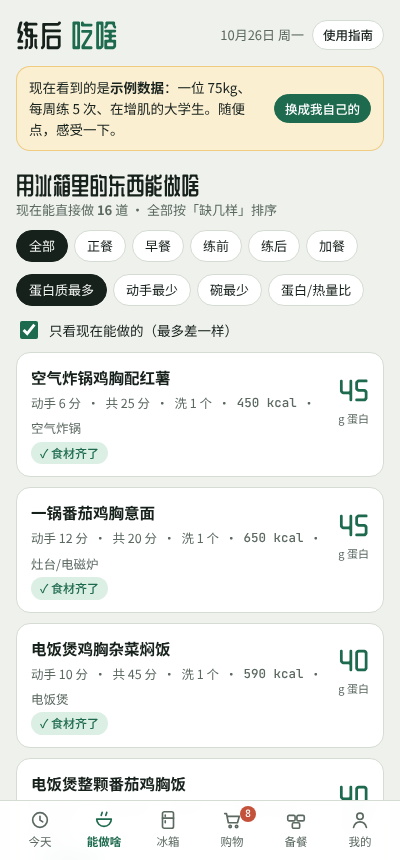
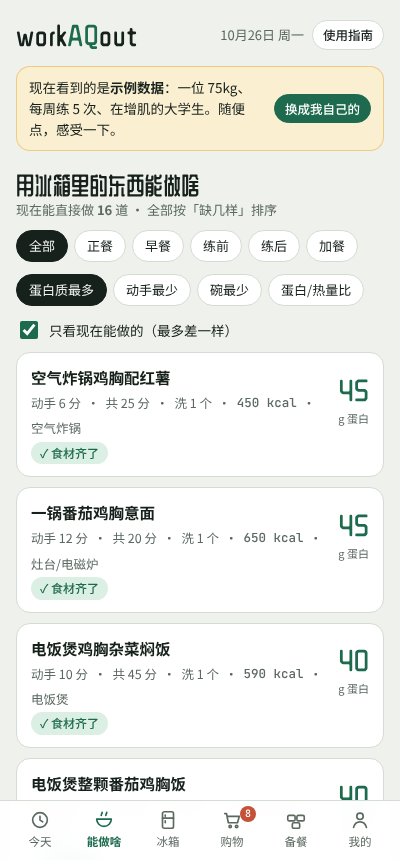
Rename app to workAQout and make it installable
- New dumbbell-over-bowl app icon (SVG source plus PNG sizes,
  including a maskable one for Android)
- Web app manifest and Apple meta tags so 'Add to Home Screen'
  opens full screen with the workAQout name and icon
- Keep the fuel/ URL and saved data key so existing users keep
  their data
- README: home-screen steps for iPhone, Android and desktop

Claude-Session: https://claude.ai/code/session_01DJxcTysiVgKHernWo6krXW

Changed region(s): [[0.03, 0.0, 0.36, 0.0605]]

diff --git a/fuel/index.html b/fuel/index.html
@@ -3,7 +3,16 @@
 <head><!--local-->
 <meta charset="utf-8"><!--local-->
 <meta name="viewport" content="width=device-width, initial-scale=1, viewport-fit=cover"><!--local-->
-<title>练后吃啥</title>
+<link rel="manifest" href="manifest.webmanifest"><!--local-->
+<link rel="icon" href="icons/icon.svg" type="image/svg+xml"><!--local-->
+<link rel="apple-touch-icon" href="icons/apple-touch-icon.png"><!--local-->
+<meta name="apple-mobile-web-app-capable" content="yes"><!--local-->
+<meta name="mobile-web-app-capable" content="yes"><!--local-->
+<meta name="apple-mobile-web-app-title" content="workAQout"><!--local-->
+<meta name="apple-mobile-web-app-status-bar-style" content="default"><!--local-->
+<meta name="theme-color" content="#1d6a4e" media="(prefers-color-scheme: light)"><!--local-->
+<meta name="theme-color" content="#0f1512" media="(prefers-color-scheme: dark)"><!--local-->
+<title>workAQout</title>
 <meta name="claude:viewport-fit-sides" content="cover">
 <meta name="description" content="给爱健身、不太会做饭的学生：按冰箱里现有的食材推荐高蛋白快手菜，自动预测什么快吃完了。">
 <link rel="preconnect" href="https://fonts.googleapis.com">
@@ -224,7 +233,7 @@ ol.steps { margin: 0; padding-left: 22px; display: flex; flex-direction: column;
 <body><!--local-->
 <div class="wrap" id="app">
   <header class="top">
-    <div class="logo">练后<b>吃啥</b><small>健身学生的厨房助手</small></div>
+    <div class="logo"><span>work<b>AQ</b>out</span><small>练后吃啥 · 健身学生的厨房助手</small></div>
     <div class="row" style="flex-wrap:nowrap"><span class="datechip" id="datechip"></span><button class="btn small" data-act="guide">使用指南</button></div>
   </header>
   <div id="banner"></div>

diff --git a/fuel/README.md b/fuel/README.md
@@ -1,4 +1,4 @@
-# 练后吃啥
+# workAQout（练后吃啥）
 
 **👉 立即试用：https://aqjc19.github.io/AQ_stuff/fuel/** （手机打开后「添加到主屏幕」就像 App 一样）
 
@@ -16,7 +16,7 @@
 
 ## 和现有 App 有什么不一样
 
-| | 一般的菜谱 App | 一般的记账/购物清单 App | 练后吃啥 |
+| | 一般的菜谱 App | 一般的记账/购物清单 App | workAQout |
 | --- | --- | --- | --- |
 | 按冰箱现有食材推荐 | 部分 | ✗ | ✓ 还会告诉你「只差一样」 |
 | 按训练时间推荐练前/练后餐 | ✗ | ✗ | ✓ |
@@ -31,8 +31,25 @@
 
 不需要安装任何东西。
 
-- **电脑**：下载这个文件夹，双击 `index.html`，用 Chrome / Safari / Edge 打开就行。
-- **手机**：把 `index.html` 放到任何静态网页托管上（比如 GitHub Pages，见下面），用手机浏览器打开，然后「添加到主屏幕」，就像一个 App。
+- **手机 / 电脑**：直接打开 https://aqjc19.github.io/AQ_stuff/fuel/
+- **离线用**：下载这个文件夹，双击 `index.html`，用 Chrome / Safari / Edge 打开就行。
+
+### 添加到手机主屏幕
+
+加好之后桌面上会有一个 workAQout 图标（哑铃 + 饭碗），点开是全屏的，没有浏览器地址栏，用起来和 App 一样。
+
+**iPhone（必须用 Safari）**
+1. 用 Safari 打开上面的网址（在微信里打开的话，点右上角「···」→「在默认浏览器中打开」）。
+2. 点底部中间的**分享**按钮（方框 + 向上箭头）。
+3. 往下滑，点「**添加到主屏幕**」→ 右上角「**添加**」。
+
+**安卓（Chrome）**
+1. 用 Chrome 打开网址。
+2. 点右上角 **⋮** →「**添加到主屏幕**」或「**安装应用**」→「添加」。
+
+**电脑（Chrome / Edge）**：地址栏右边会出现一个「安装」图标，点它就会变成一个独立窗口的 App。
+
+> 之前已经加过旧图标的：先在桌面上长按删除旧的，再按上面的步骤重新添加一次，就会换成新图标。
 - **用 GitHub Pages 发布**：在仓库的 Settings → Pages 里，Source 选 `main` 分支、根目录，保存。几分钟后就能通过
   `https://aqjc19.github.io/AQ_stuff/fuel/` 访问。注意仓库需要是 Public（或者你有 GitHub Pro）。
 
@@ -120,8 +137,10 @@ App 右上角的「使用指南」按钮里也有这一份。
 
 ```
 fuel/
-├── index.html   整个 App（HTML + CSS + JS 一个文件，无依赖）
-└── README.md    这份说明
+├── index.html             整个 App（HTML + CSS + JS 一个文件，无依赖）
+├── manifest.webmanifest   App 名字、图标、全屏模式（添加到主屏幕用）
+├── icons/                 App 图标（icon.svg 是源文件）
+└── README.md              这份说明
 ```
 
 想加自己的菜：在 `index.html` 里找到 `const R = [`，照着格式加一行即可（`need` 写主要食材的 id，`g` 写需要的厨具）。

diff --git a/README.md b/README.md
@@ -4,8 +4,8 @@ Personal projects and files generated with Claude Code.
 
 ## 项目
 
-**👉 练后吃啥 立即试用：https://aqjc19.github.io/AQ_stuff/fuel/**
+**👉 workAQout（练后吃啥）立即试用：https://aqjc19.github.io/AQ_stuff/fuel/**
 
 | 文件夹 | 是什么 |
 | --- | --- |
-| [`fuel/`](fuel/) | **练后吃啥**：给健身学生的厨房助手。按冰箱食材推荐高蛋白快手菜，预测什么快吃完了。双击 `index.html` 就能用。 |
+| [`fuel/`](fuel/) | **workAQout（练后吃啥）**：给健身学生的厨房助手。按冰箱食材推荐高蛋白快手菜，预测什么快吃完了。双击 `index.html` 就能用。 |
